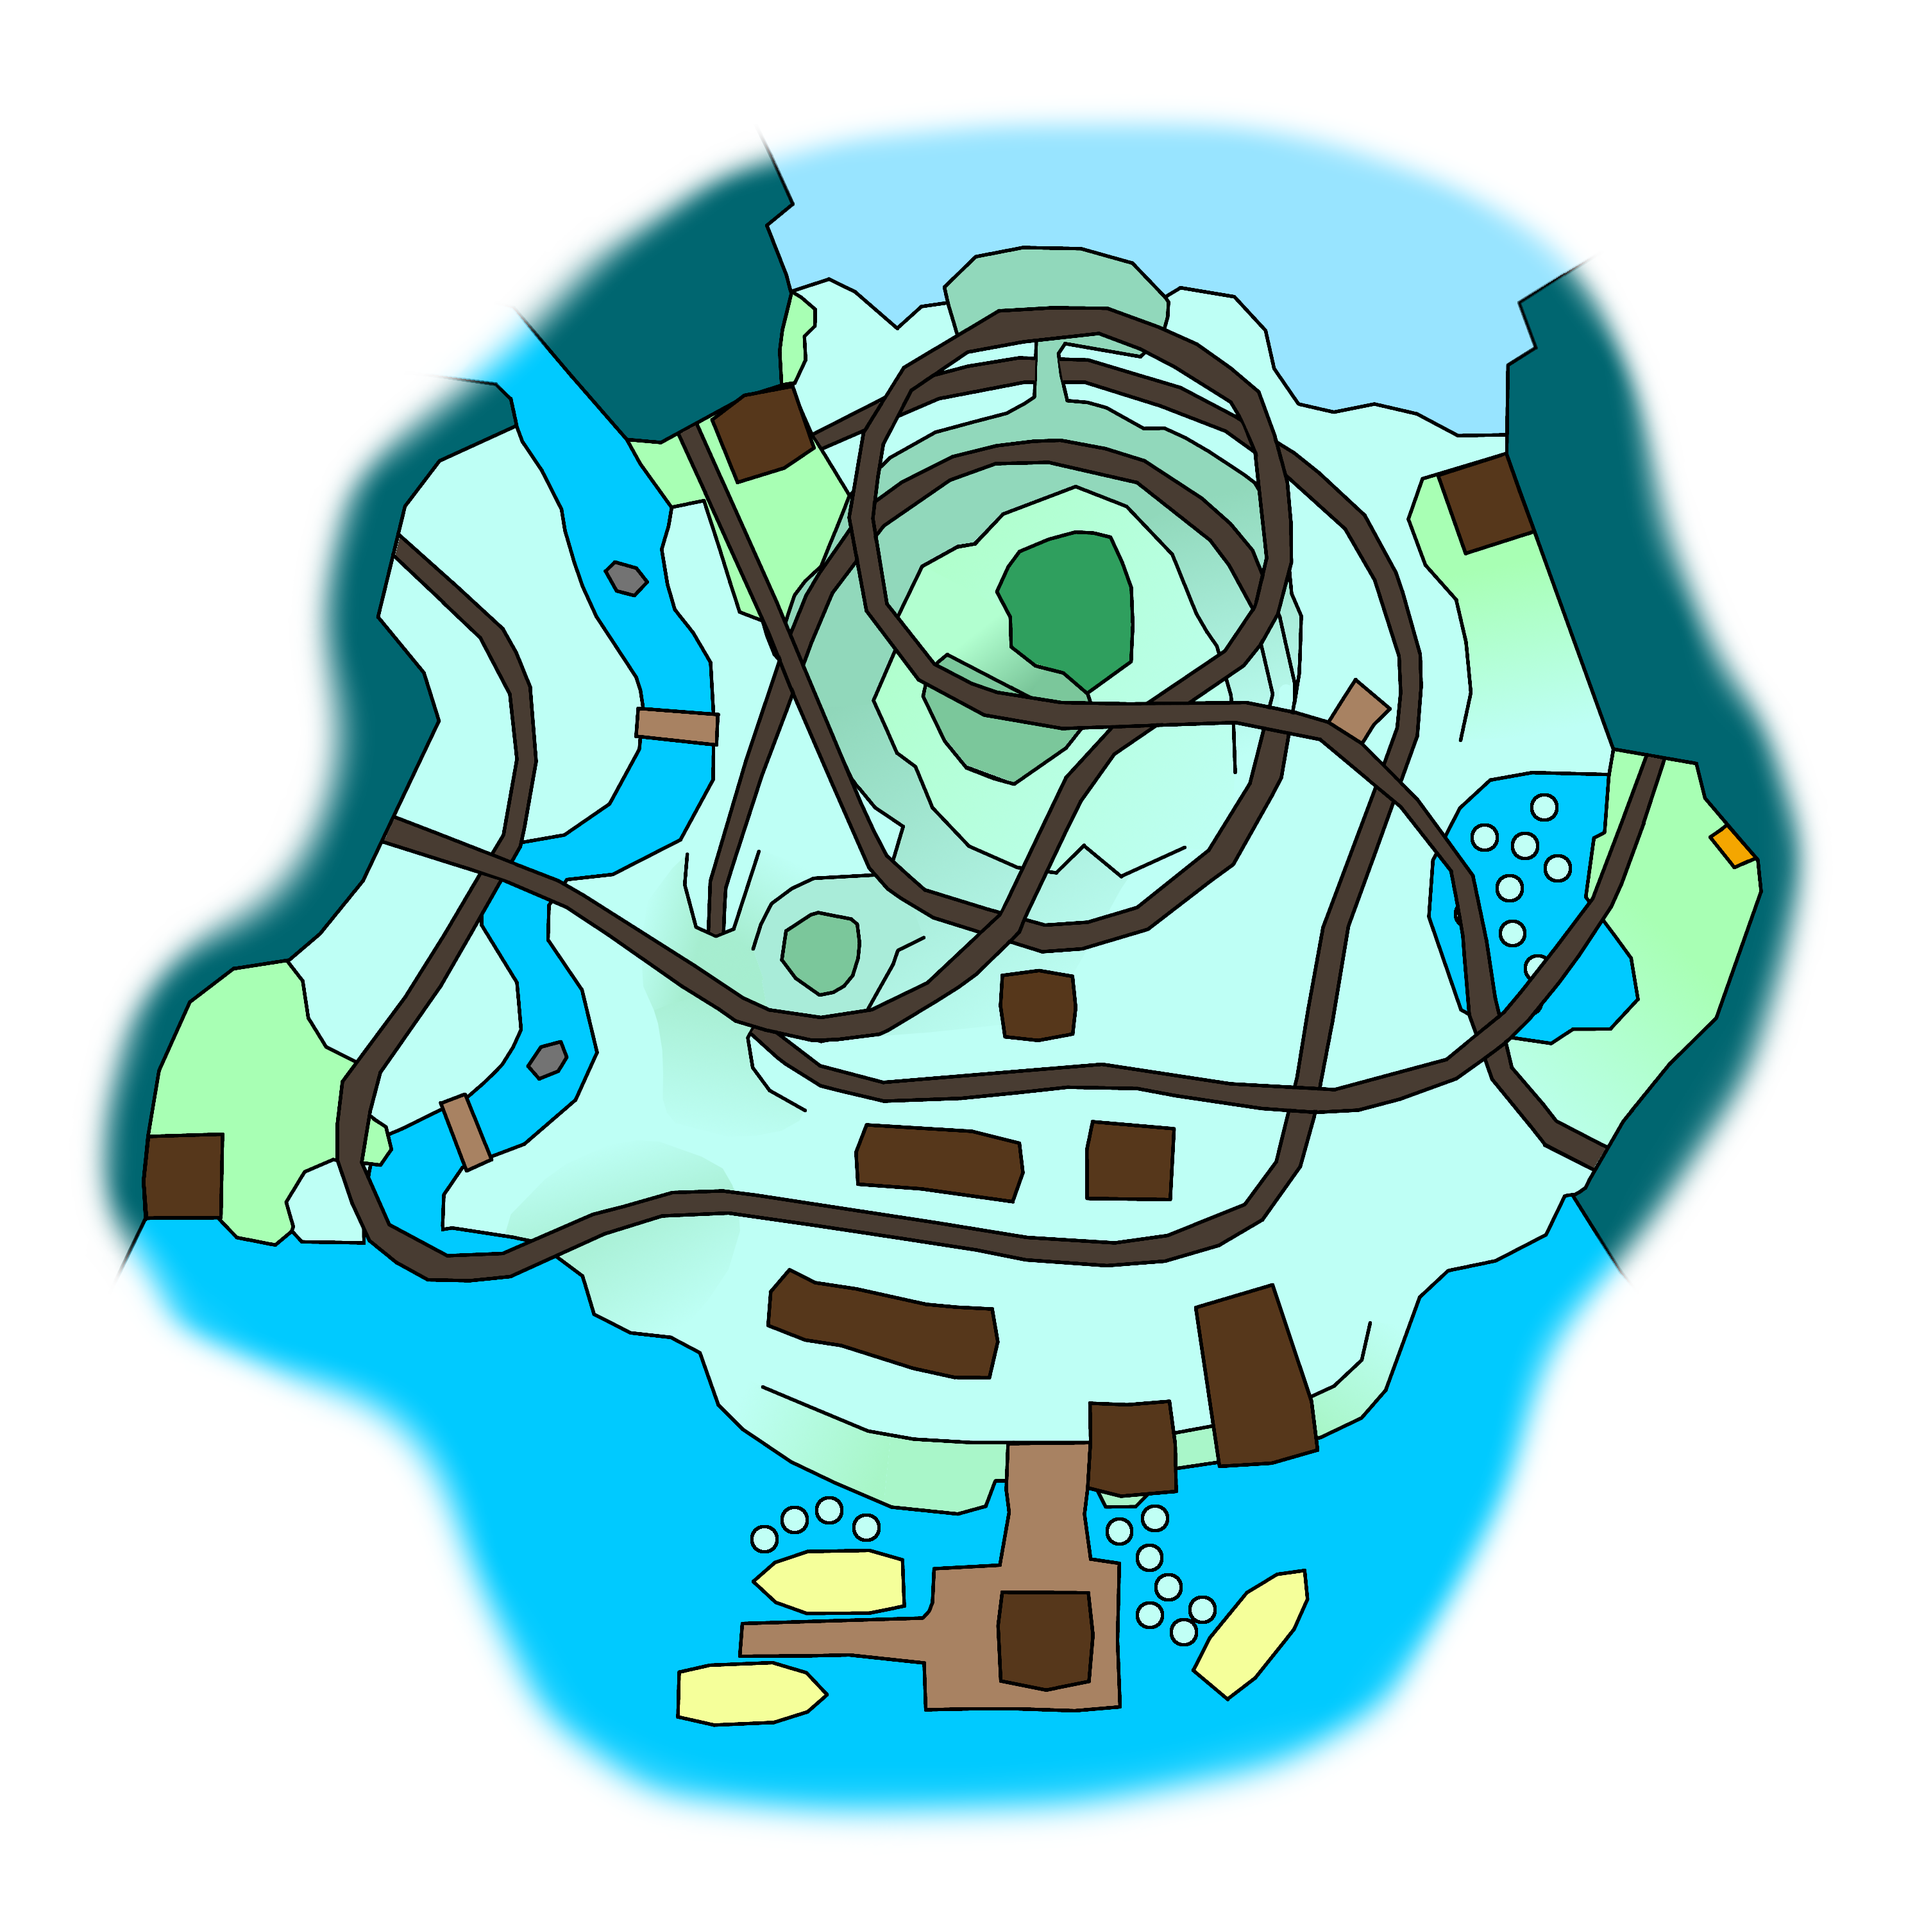
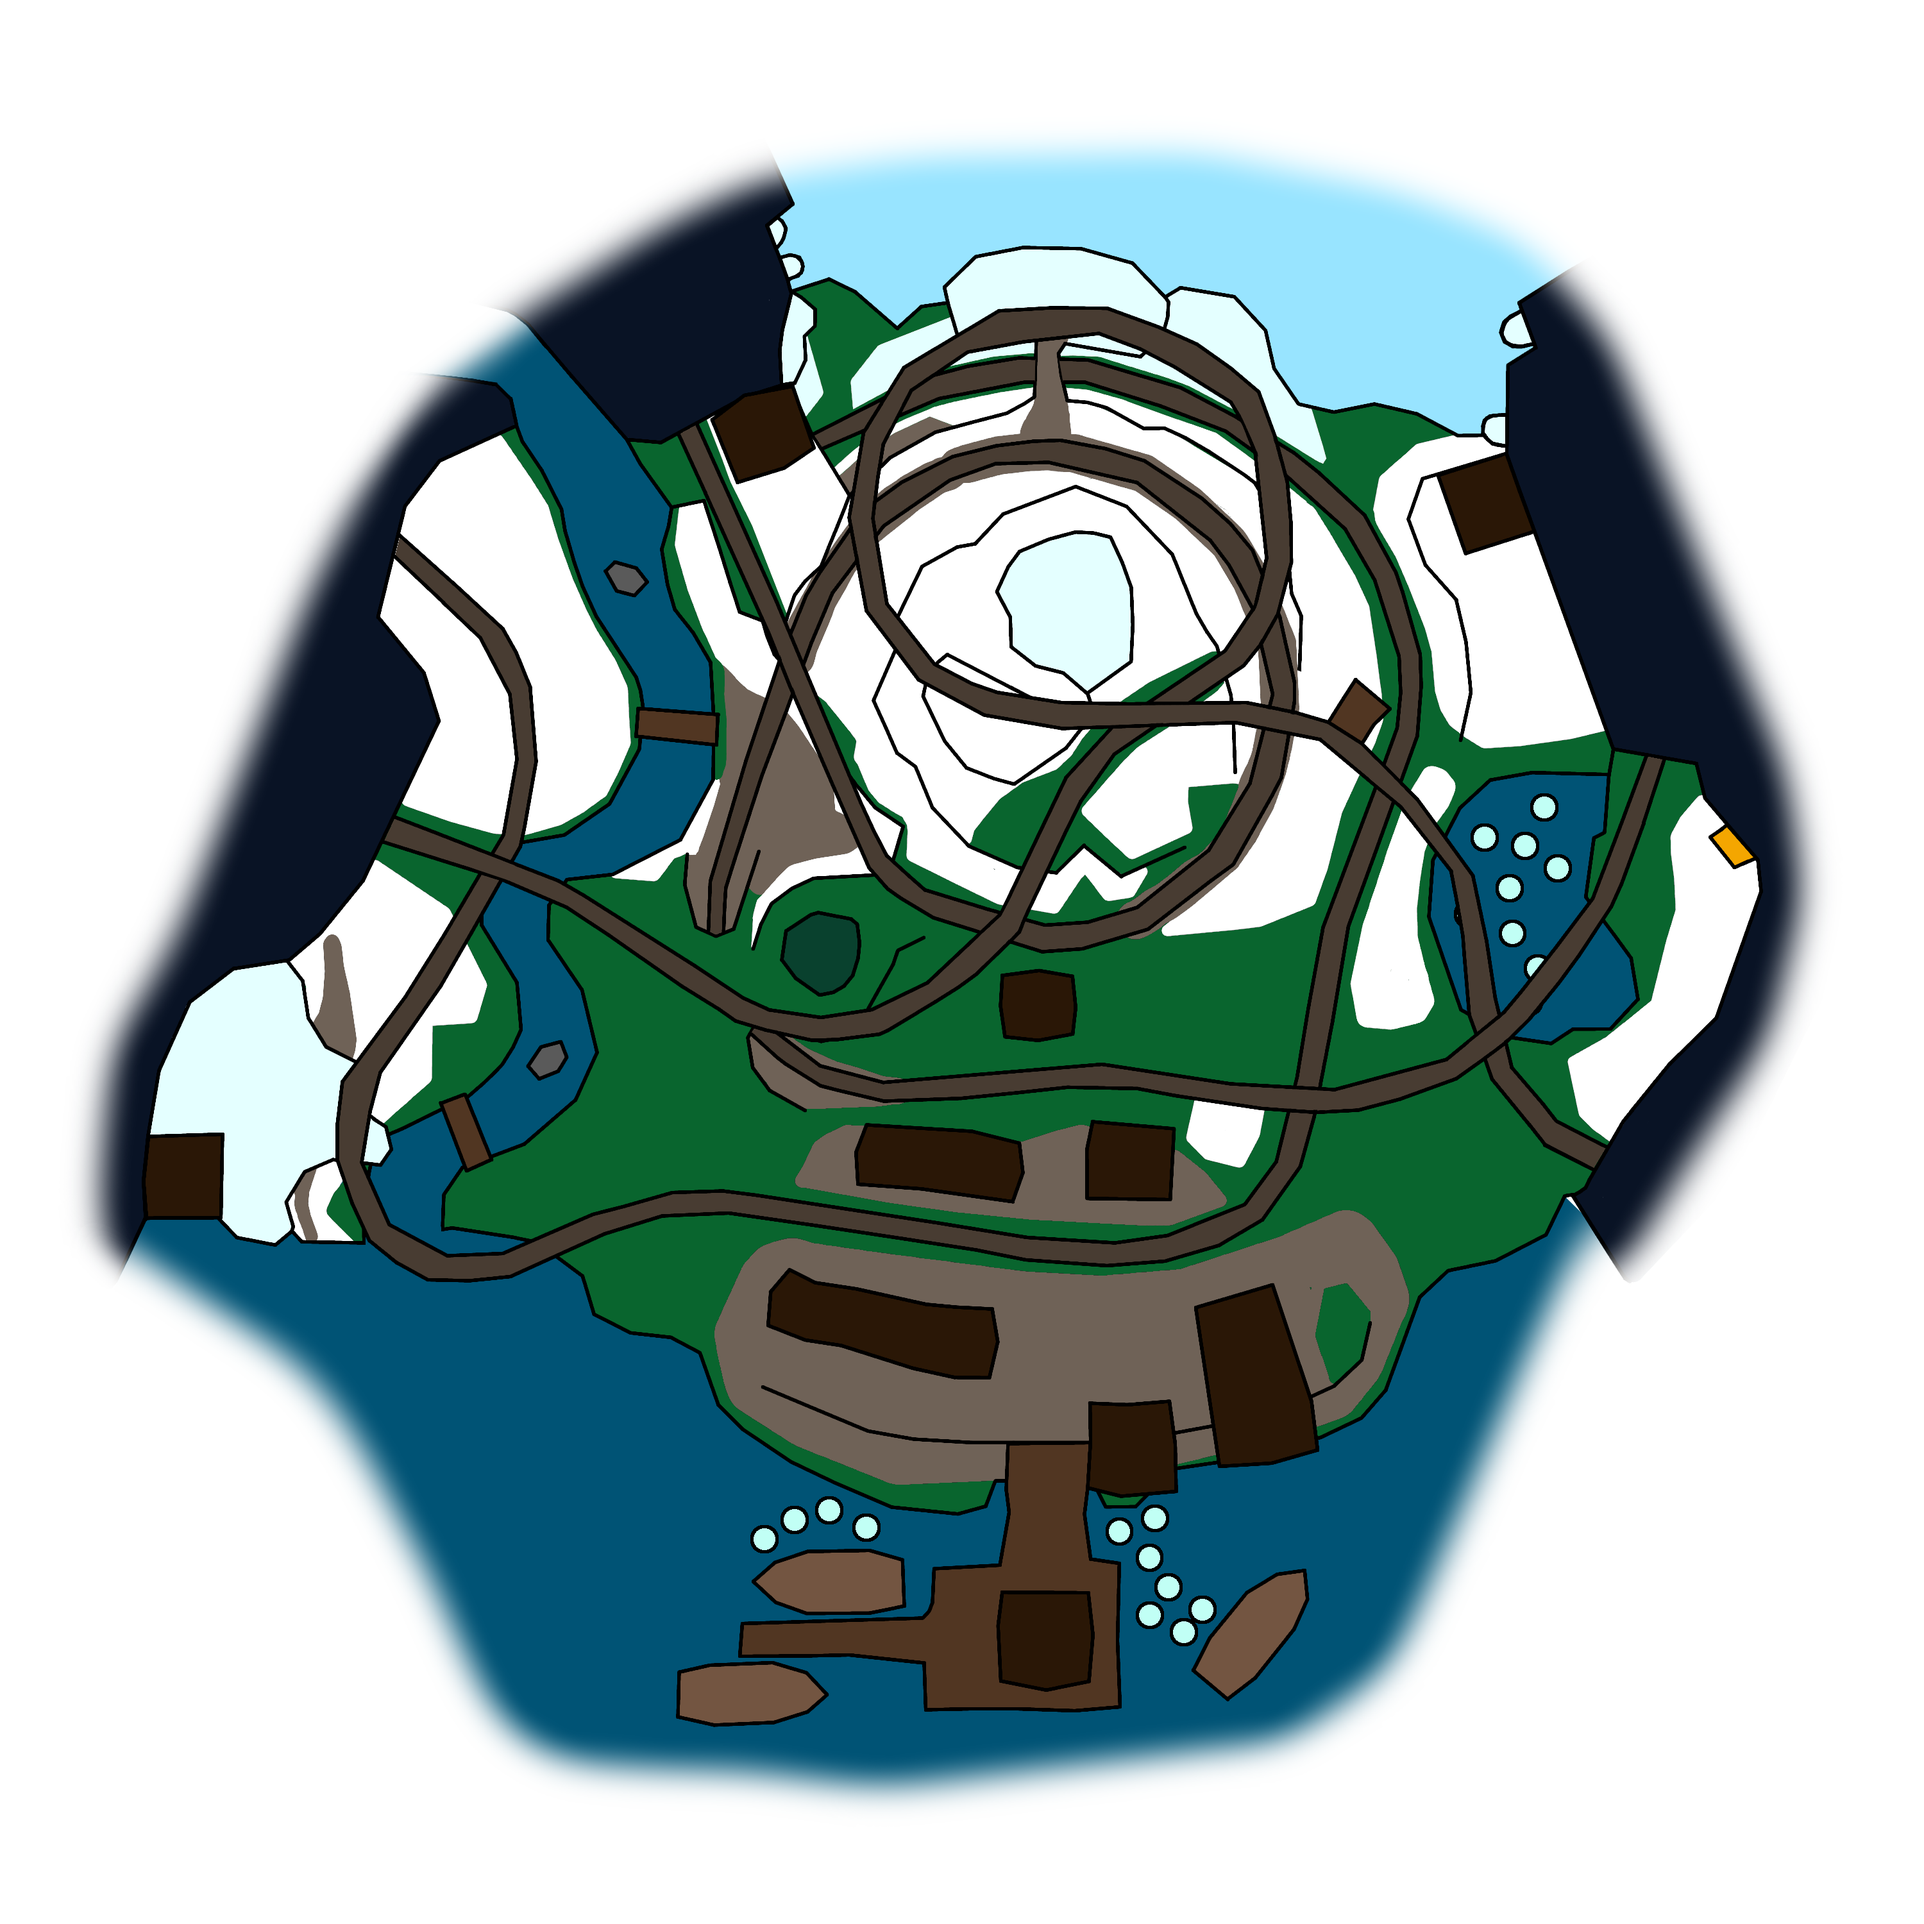
Updates on functionality

diff --git a/js/S2E6.js b/js/S2E6.js
@@ -56,13 +56,18 @@ const fetchData = async () => {
     let res3 = await fetch(url3)
     data["jobs"] = await res3.json();
 
+    let url4 = "./geojson/safehouse.json";
+    let res4 = await fetch(url4)
+    data["safehouse"] = await res4.json();
+
     initMap(data)
 }
 
 const initMap = (data) => {
     let map = L.map('map', {
-        minZoom: 8,
+        minZoom: 8.5,
         maxZoom: 11,
+        zoomSnap: 0.25,
         crs: L.CRS.Simple
     })
 
@@ -72,7 +77,10 @@ const initMap = (data) => {
     let ne = map.unproject(L.point(1.3288069835111542192046556741028,1.418040737148399612027158098933+xOffset));
 
     // Base map
-    let ep6 = L.imageOverlay("./maps/map.png", [[sw.lat,sw.lng], [ne.lat,ne.lng]]).addTo(map)
+    let canada_hub = L.imageOverlay("./maps/map.png", [[sw.lat,sw.lng], [ne.lat,ne.lng]]).addTo(map)
+    let canada_hub_bw = L.imageOverlay("./maps/map_bw.png", [[sw.lat,sw.lng], [ne.lat,ne.lng]])
+
+    let cave = L.imageOverlay("./maps/cave.png", [[sw.lat,sw.lng], [ne.lat,ne.lng]])
 
     // Bottle icons
     let bottle_icon = getIcon("../../assets/bottle.png", [20, 32], [7, 28], [0, -28])
@@ -90,7 +98,7 @@ const initMap = (data) => {
         },
         onEachFeature: getFeature,
         weight: 2
-    }).addTo(map)
+    })
 
     let treasures = L.geoJSON(data["treasures"], {
         pointToLayer: function(feature,latlng) {
@@ -99,7 +107,16 @@ const initMap = (data) => {
         },
         onEachFeature: getFeature,
         weight: 2
-    }).addTo(map)
+    })
+
+    let safehouse = L.geoJSON(data["safehouse"], {
+        pointToLayer: function(feature,latlng) {
+            return L.marker(latlng,{icon: safehouse_icon})
+            
+        },
+        onEachFeature: getFeature,
+        weight: 2
+    })
 
     let jobs = L.geoJSON(data["jobs"], {
         pointToLayer: function(feature,latlng) {
@@ -114,16 +131,22 @@ const initMap = (data) => {
         },
         onEachFeature: getFeature,
         weight: 2
-    }).addTo(map)
+    })
 
     let layerControl = L.control.layers().addTo(map);
 
+    layerControl.addBaseLayer(canada_hub, "Canada Hub")
+    layerControl.addBaseLayer(canada_hub_bw, "Canada Hub (Gray)")
+
+    layerControl.addOverlay(cave, "Cave");
     layerControl.addOverlay(bottles, "Bottles");
     layerControl.addOverlay(treasures, "Treasures");
     layerControl.addOverlay(jobs, "Jobs");
+    layerControl.addOverlay(safehouse, "Safe House");
+
     
     // Map on screen
-    map.fitBounds(ep6.getBounds())
+    map.fitBounds(canada_hub.getBounds())
 
 }
 

diff --git a/js/S2E1.js b/js/S2E1.js
@@ -65,8 +65,9 @@ const fetchData = async () => {
 
 const initMap = (data) => {
     let map = L.map('map', {
-        minZoom: 8,
+        minZoom: 8.5,
         maxZoom: 11,
+        zoomSnap: 0.25,
         crs: L.CRS.Simple
     })
 
@@ -76,7 +77,9 @@ const initMap = (data) => {
     let ne = map.unproject(L.point(1.33480608738,1.178694158075601+xOffset));
 
     // Base map
-    let ep6 = L.imageOverlay("./maps/map.png", [[sw.lat,sw.lng], [ne.lat,ne.lng]]).addTo(map)
+    
+    let paris_hub = L.imageOverlay("./maps/map.png", [[sw.lat,sw.lng], [ne.lat,ne.lng]]).addTo(map)
+    let paris_hub_bw = L.imageOverlay("./maps/map_bw.png", [[sw.lat,sw.lng], [ne.lat,ne.lng]])
 
     // Bottle icons
     let bottle_icon = getIcon("../../assets/bottle.png", [20, 32], [7, 28], [0, -28])
@@ -94,7 +97,7 @@ const initMap = (data) => {
         },
         onEachFeature: getFeature,
         weight: 2
-    }).addTo(map)
+    })
 
     let treasures = L.geoJSON(data["treasures"], {
         pointToLayer: function(feature,latlng) {
@@ -103,7 +106,7 @@ const initMap = (data) => {
         },
         onEachFeature: getFeature,
         weight: 2
-    }).addTo(map)
+    })
 
     let safehouse = L.geoJSON(data["safehouse"], {
         pointToLayer: function(feature,latlng) {
@@ -112,7 +115,7 @@ const initMap = (data) => {
         },
         onEachFeature: getFeature,
         weight: 2
-    }).addTo(map)
+    })
 
     let jobs = L.geoJSON(data["jobs"], {
         pointToLayer: function(feature,latlng) {
@@ -134,9 +137,12 @@ const initMap = (data) => {
         },
         onEachFeature: getFeature,
         weight: 2
-    }).addTo(map)
+    })
 
     let layerControl = L.control.layers().addTo(map);
+
+    layerControl.addBaseLayer(paris_hub, "Paris Hub")
+    layerControl.addBaseLayer(paris_hub_bw, "Paris Hub (Gray)")
 
     layerControl.addOverlay(bottles, "Bottles");
     layerControl.addOverlay(treasures, "Treasures");
@@ -144,7 +150,7 @@ const initMap = (data) => {
     layerControl.addOverlay(safehouse, "Safe House");
     
     // Map on screen
-    map.fitBounds(ep6.getBounds())
+    map.fitBounds(paris_hub.getBounds())
 
 }
 
